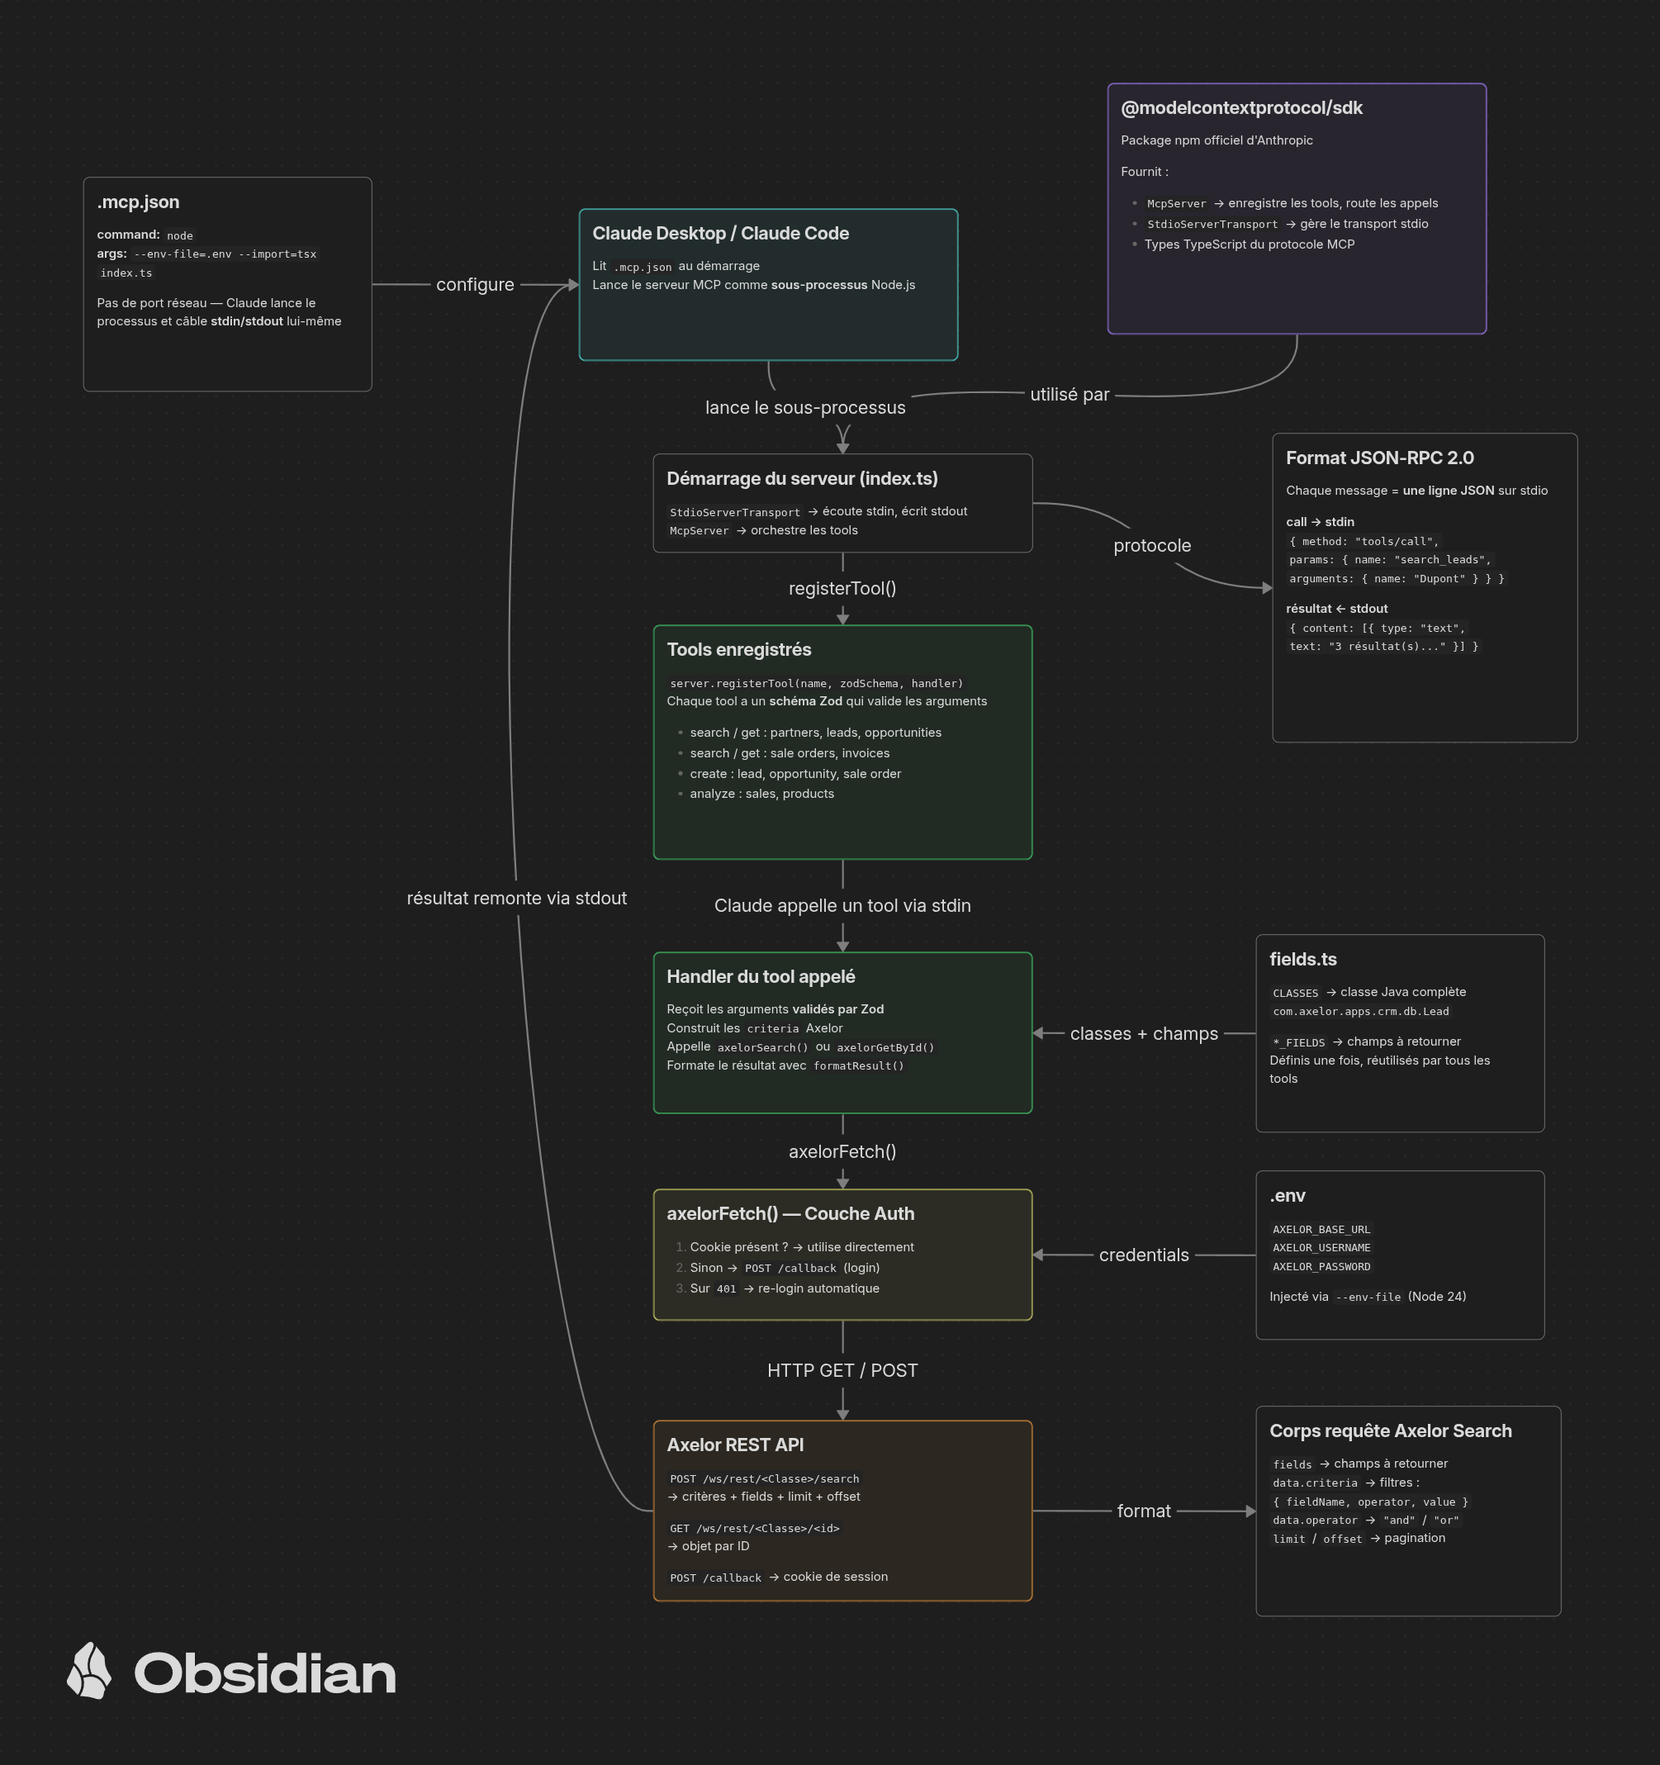
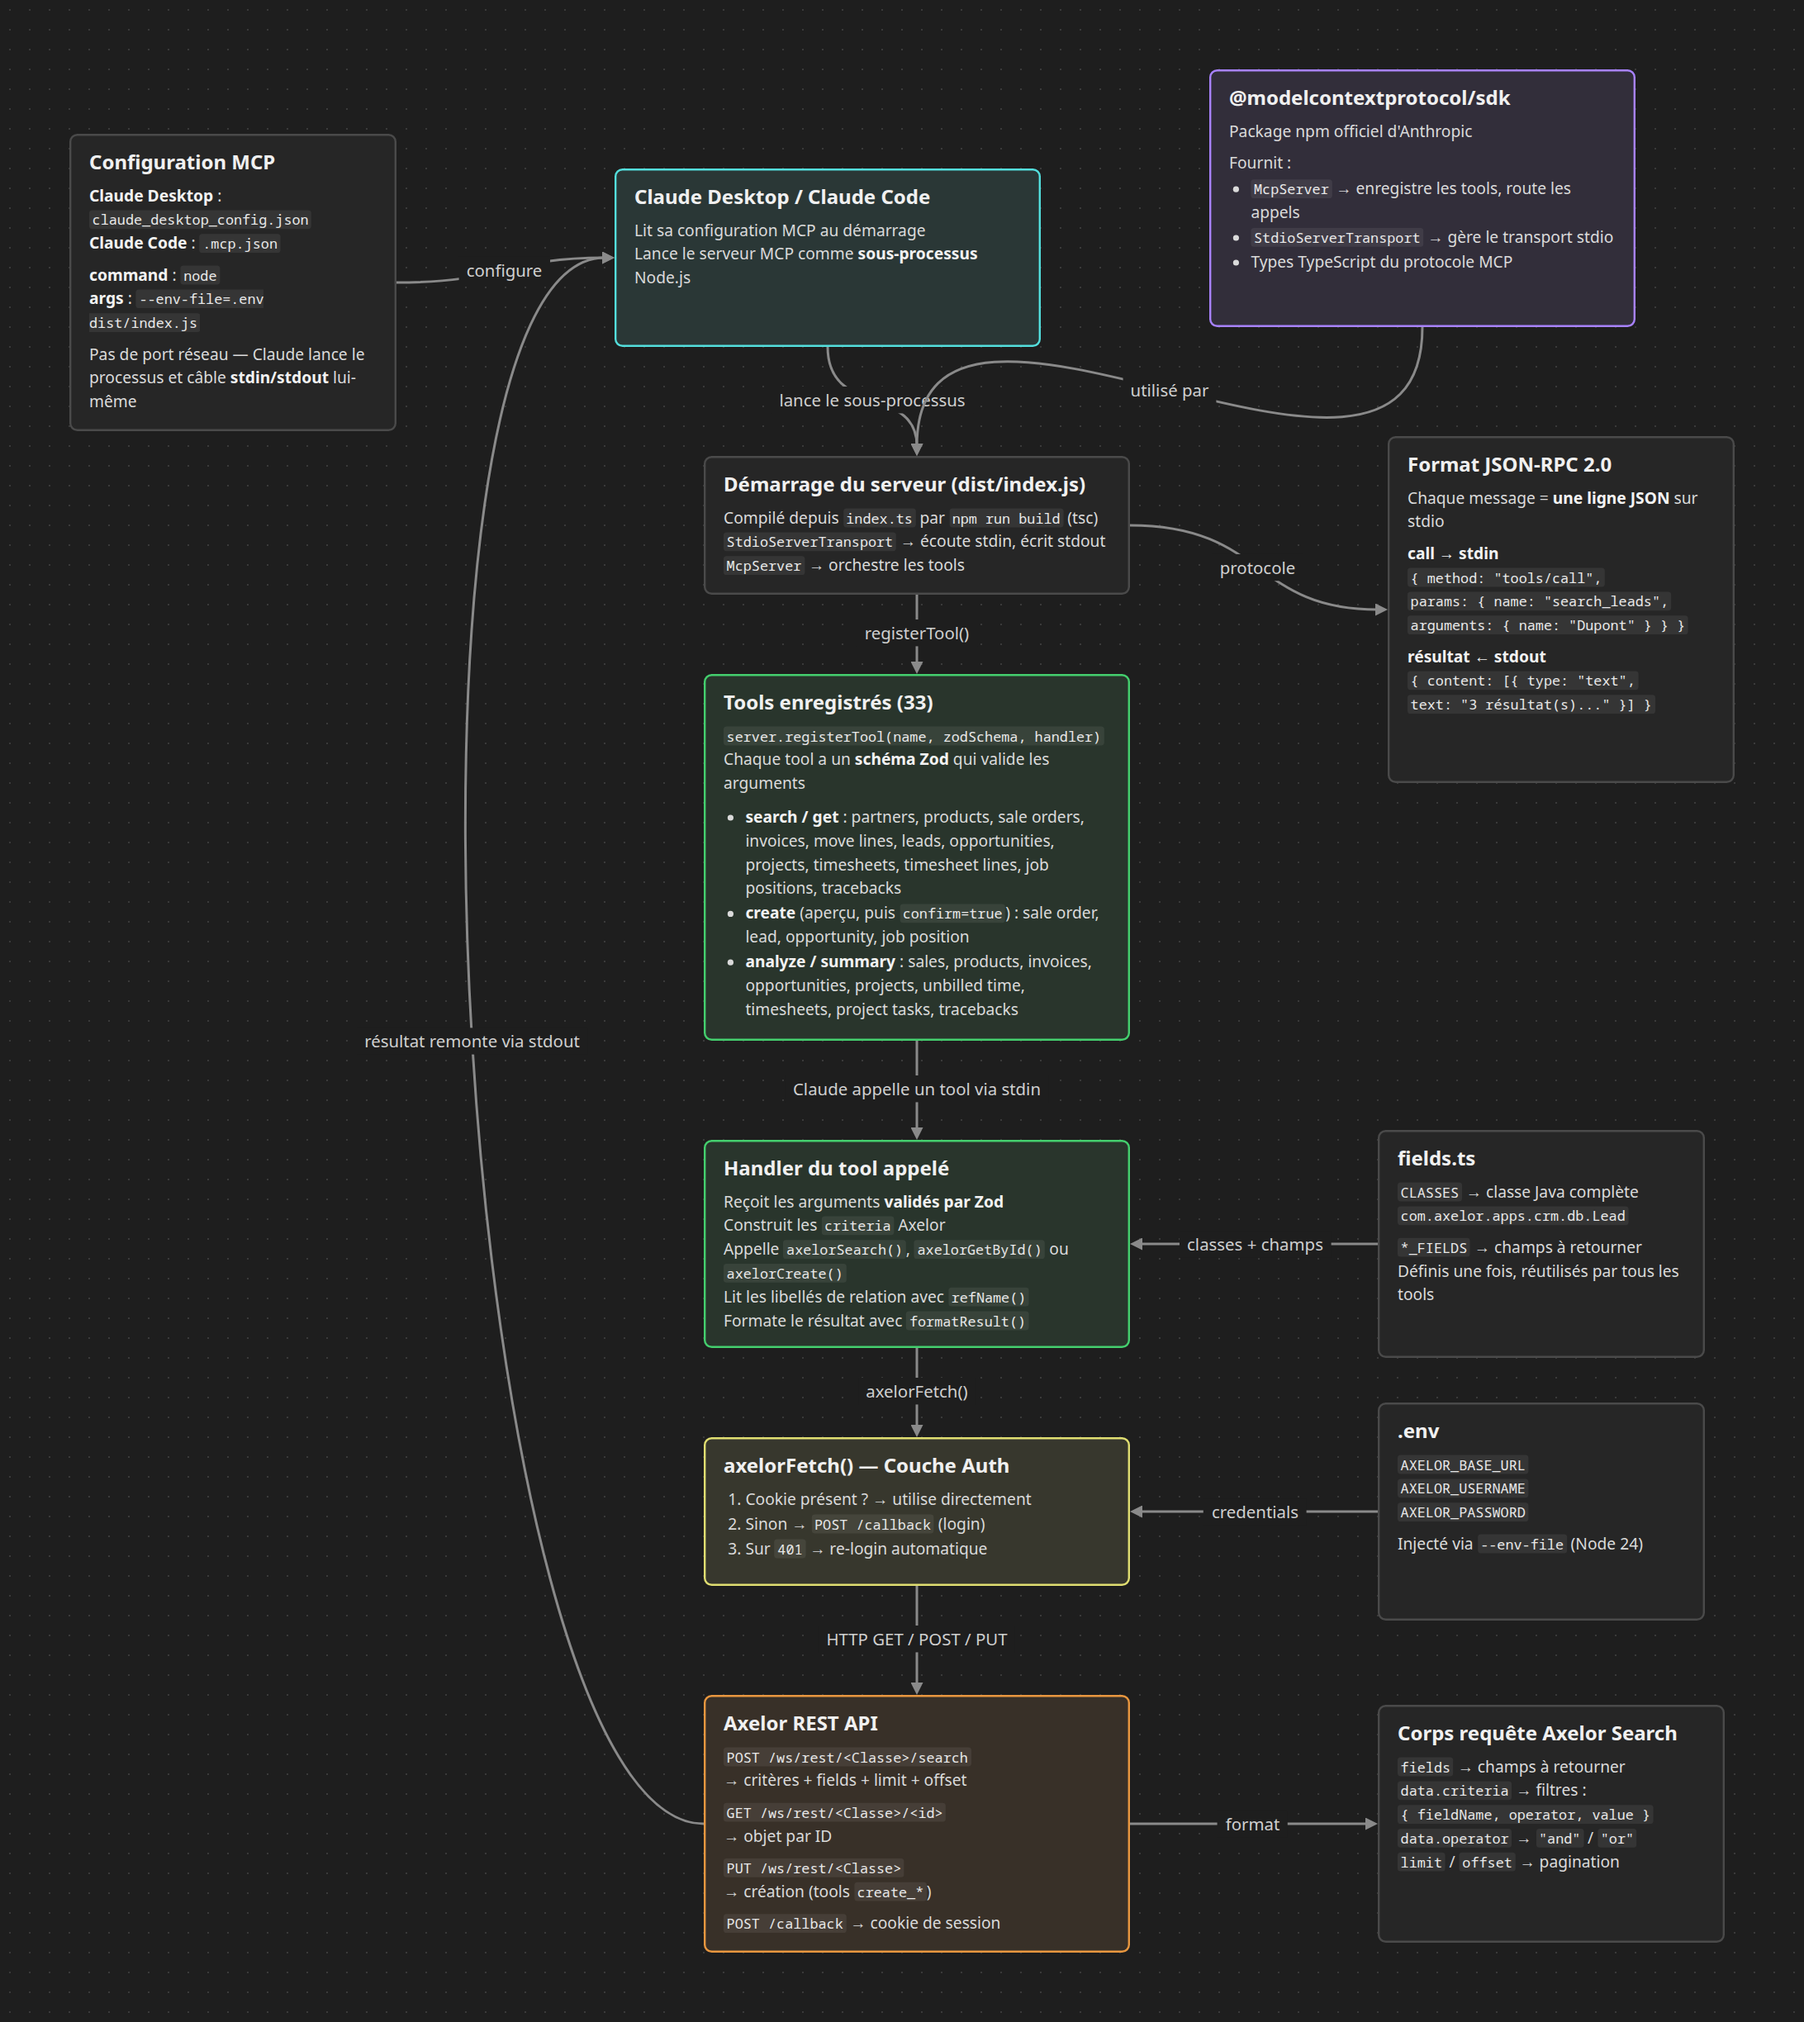
docs(readme): add architecture diagram and broaden intro
Add a 'Fonctionnement' section with the updated architecture diagram,
rewrite the intro, document the new timesheet tools and remove outdated
Claude Desktop screenshots.

diff --git a/README.md b/README.md
@@ -1,18 +1,23 @@
 # Axelor MCP - Connecteur Axelor pour Claude
 
-Ce projet permet à Claude d'interroger directement votre instance Axelor : rechercher des partenaires, consulter et créer des commandes clients, etc.
+Ce serveur MCP connecte Claude à Axelor Open Suite. Vous posez vos questions en langage naturel, et Claude interroge l'ERP pour rechercher les données, les croiser et les analyser : chiffre d'affaires, marges, facturation, pipeline commercial, avancement des projets, temps passé, anomalies techniques…
 
-## Aperçu
-
-![Serveur MCP Axelor dans Claude Desktop](assets/axelor-mcp-claude-desktop.png)
-
-![Exemple de création de piste CRM via Claude](assets/axelor-mcp-claude-desktop-2.png)
+Il couvre les principaux modules d'Axelor (ventes, facturation, comptabilité, CRM, projets, temps, RH) et peut aussi créer des enregistrements, toujours après confirmation.
 
 ## Table des matières
 
+- [Fonctionnement](#fonctionnement)
 - [Installation Windows](#installation-windows)
 - [Mise à jour](#mise-à-jour)
 - [Outils disponibles](#outils-disponibles)
+
+---
+
+## Fonctionnement
+
+Claude lance le serveur MCP comme un sous-processus Node.js et dialogue avec lui en JSON-RPC sur stdin/stdout, sans port réseau. Quand Claude appelle un outil, le serveur valide les arguments, interroge l'API REST d'Axelor avec les identifiants du fichier `.env`, puis renvoie le résultat à Claude.
+
+![Architecture du serveur MCP Axelor](assets/Axelor%20MCP%20-%20Architecture.png)
 
 ---
 
@@ -166,8 +171,10 @@ Une fois connecté, vous pouvez faire vos demandes en langage naturel, le MCP va
 **Feuilles de temps**
 
 - `search_timesheets` — _"Feuilles de temps en attente de validation"_, _"Feuilles de temps de Dupont sur janvier 2026"_ (filtres : employé, statut, période)
-- `get_timesheet` — _"Montre-moi le détail de la feuille de temps de Dupont avec toutes ses lignes"_
-- `summary_timesheet_by_project` — _"Temps passé par projet cette semaine"_, _"Heures imputées par employé en mars 2026"_, _"Récap du temps passé par projet sur le projet X en février"_ (groupBy : project / employee ; filtres : période obligatoire, employé, projet)
+- `get_timesheet` — _"Montre-moi la feuille de temps de Dupont de la semaine dernière"_ (pour le détail des heures saisies : `search_timesheet_lines`)
+- `summary_timesheet_by_project` — _"Temps passé par projet cette semaine"_, _"Heures imputées par employé en mars 2026"_, _"Récap du temps passé par projet sur le projet X en février"_ (groupBy : project / employee ; filtres : période obligatoire, employé, projet, statut de feuille — défaut : hors feuilles refusées et annulées)
+- `search_timesheet_lines` — _"Détail des heures saisies par Dupont la semaine dernière"_, _"Lignes de temps à facturer non facturées sur le projet X"_ (date, employé, projet, tâche, activité, heures, commentaire, facturation ; filtres : employé, projet, période, à facturer, facturé, statut de feuille)
+- `analyze_unbilled_time` — _"Quel est l'en-cours de temps non facturé par client ?"_, _"En-cours par équipe à fin septembre"_ (temps à facturer pas encore facturé, en heures et valorisé HT ; groupBy : project / client / team / employee ; filtres : période, client, projet, employé, équipe)
 
 **Postes à pourvoir (RH)**
 
